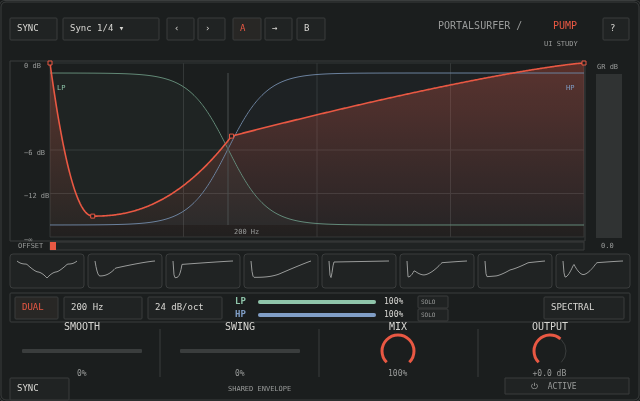
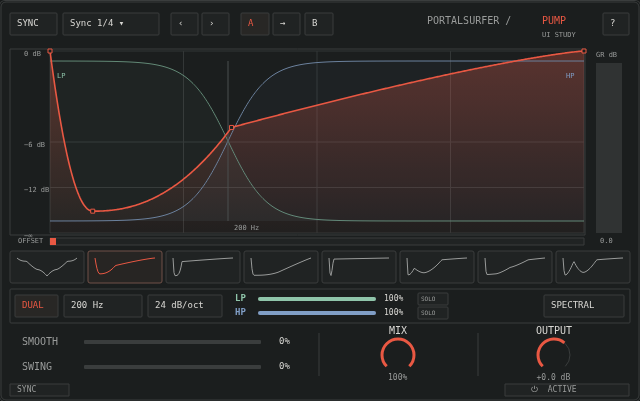
Refine editor composition and group related controls

diff --git a/frame-standalone.html b/frame-standalone.html
@@ -92,7 +92,7 @@ button:focus-visible, select:focus-visible { outline: 2px solid #e95843; outline
   function text(c,t,x,y,size=10,color=C.text,weight=400){c.fillStyle=color;c.font=`${weight} ${size}px ui-monospace, SFMono-Regular, monospace`;c.textBaseline='middle';c.fillText(t,x,y);}
   function button(c,t,x,y,w,active=false){rect(c,x,y,w,22,1,active?'#282725':C.panel);text(c,t,x+7,y+11,9,active?C.accent:C.text);}
   function knob(c,label,value,x,y,a=0){text(c,label,x-label.length*3,y-24,10);c.strokeStyle=C.line;c.lineWidth=1;c.beginPath();c.arc(x,y,16,.75*Math.PI,2.25*Math.PI);c.stroke();if(a>0){c.strokeStyle=C.accent;c.lineWidth=3;c.beginPath();c.arc(x,y,16,.75*Math.PI,(.75+1.5*a)*Math.PI);c.stroke();}text(c,value,x-value.length*2.5,y+23,8,C.muted);}
-  function slider(c,label,value,x,y,a=0){text(c,label,x-label.length*3,y-24,10,C.text);rect(c,x-60,y-2,120,4,1,'#3a3d3d',null);if(a>0)rect(c,x-60,y-2,120*a,4,1,C.accent,null);text(c,value,x-value.length*2.5,y+23,8,C.muted);}
+  function slider(c,label,value,x,y,w=282,a=0){text(c,label,x,y,10,C.muted);const tx=x+62,tw=w-105;rect(c,tx,y-2,tw,4,1,C.line,null);if(a>0)rect(c,tx,y-2,tw*a,4,1,C.accent,null);text(c,value,x+w-25,y,9,C.text);}
   function mixRow(c,label,x,y,value,color){text(c,label,x,y,9,color,600);rect(c,x+23,y-2,118,4,2,'#353838',null);if(value>0)rect(c,x+23,y-2,118*value,4,2,color,null);text(c,Math.round(value*100)+'%',x+149,y,8);rect(c,x+183,y-6,30,12,1,C.panel);text(c,'SOLO',x+186,y,6,C.muted);}
   const shapes=[["Sine", [[0.0, 1.0], [0.16, 0.82], [0.34, 0.36], [0.5, 0.0], [0.66, 0.36], [0.84, 0.82], [1.0, 1.0]], [-0.55, -0.1, 0.25, -0.25, 0.1, 0.55]], ["Soft", [[0.0, 1.0], [0.08, 0.12], [0.34, 0.58], [1.0, 1.0]], [-0.35, 0.42, -0.08]], ["Tight", [[0.0, 1.0], [0.035, 0.02], [0.15, 0.8], [1.0, 1.0]], [-0.58, 0.72, -0.04]], ["Long", [[0.0, 1.0], [0.05, 0.04], [0.46, 0.22], [1.0, 1.0]], [-0.48, 0.58, -0.02]], ["Snap", [[0.0, 1.0], [0.012, 0.22], [0.03, 0.0], [0.075, 0.94], [1.0, 1.0]], [-0.08, 0.02, 0.12, 0.0]], ["Punch", [[0.0, 1.0], [0.02, 0.06], [0.12, 0.44], [0.28, 0.18], [0.58, 0.9], [1.0, 1.0]], [-0.52, 0.3, -0.24, 0.22, -0.04]], ["Thump", [[0.0, 1.0], [0.03, 0.08], [0.18, 0.12], [0.42, 0.48], [0.72, 0.9], [1.0, 1.0]], [-0.35, 0.05, 0.12, 0.08, -0.02]], ["Double", [[0.0, 1.0], [0.04, 0.05], [0.18, 0.82], [0.34, 0.2], [0.56, 0.9], [1.0, 1.0]], [-0.48, 0.18, -0.28, 0.2, -0.05]]];
   function sample(shape,x){const n=shape[1],ts=shape[2];let i=0;while(i<n.length-2&&x>n[i+1][0])i++;const l=n[i],r=n[i+1];let t=Math.max(0,Math.min(1,(x-l[0])/(r[0]-l[0])));const tension=ts[i]||0,power=1+Math.abs(tension)*3;t=tension>=0?Math.pow(t,power):1-Math.pow(1-t,power);return l[1]+(r[1]-l[1])*t;}
@@ -108,27 +108,27 @@ button:focus-visible, select:focus-visible { outline: 2px solid #e95843; outline
   }
   function shell(c,mode){
     c.fillStyle=C.bg;c.fillRect(0,0,640,400);rect(c,1,1,638,398,5,C.bg,C.line);
-    button(c,'SYNC',10,17,47);button(c,'Sync 1/4 ▾',63,17,96);button(c,'‹',167,17,27);button(c,'›',198,17,27);button(c,'A',233,17,28,true);button(c,'→',265,17,27);button(c,'B',297,17,28);
-    text(c,'PORTALSURFER /',438,25,10,C.muted);text(c,'PUMP',553,25,10,C.accent);text(c,'UI STUDY',544,43,7,C.muted);button(c,'?',603,17,26);
-    const x=50,y=62,w=534,h=174;rect(c,10,60,575,180,0,C.bg,C.line);
+    button(c,'SYNC',10,12,47);button(c,'Sync 1/4 ▾',63,12,96);button(c,'‹',171,12,27);button(c,'›',202,12,27);button(c,'A',241,12,28,true);button(c,'→',273,12,27);button(c,'B',305,12,28);
+    text(c,'PORTALSURFER /',427,20,10,C.muted);text(c,'PUMP',542,20,10,C.accent);text(c,'UI STUDY',542,34,7,C.muted);button(c,'?',603,12,26);
+    const x=50,y=50,w=534,h=182;rect(c,10,48,575,186,0,C.bg,C.line);
     c.strokeStyle='#333737';c.lineWidth=1;for(let i=0;i<=4;i++){c.beginPath();c.moveTo(x+w*i/4,y);c.lineTo(x+w*i/4,y+h);c.stroke();}for(const level of [0,.5,.75,1]){c.beginPath();c.moveTo(x,y+h*level);c.lineTo(x+w,y+h*level);c.stroke();}
     const gradient=c.createLinearGradient(0,y,0,y+h);gradient.addColorStop(0,'rgba(233,88,67,.30)');gradient.addColorStop(1,'rgba(233,88,67,.03)');c.beginPath();c.moveTo(x,y+h);for(let i=0;i<=w;i++)c.lineTo(x+i,y+(1-sample(shapes[1],i/w))*h);c.lineTo(x+w,y+h);c.closePath();c.fillStyle=gradient;c.fill();
     crossover(c,x,y,w,h);c.strokeStyle=C.accent;c.lineWidth=1.6;curve(c,shapes[1],x,y,w,h);for(const n of shapes[1][1])rect(c,x+n[0]*w-2,y+(1-n[1])*h-2,4,4,0,C.bg,C.accent);
     for(const [label,level] of [['0 dB',0],['−6 dB',.5],['−12 dB',.75],['−∞',1]])text(c,label,24,y+level*h+3,7,C.muted);
-    text(c,'OFFSET',18,245,7,C.muted);rect(c,50,241,534,8,0,C.panel);c.fillStyle=C.accent;c.fillRect(50,241,6,8);
-    text(c,'GR dB',597,66,7,C.muted);rect(c,596,73,26,164,0,'#303333',null);text(c,'0.0',601,245,7,C.muted);
-    shapes.forEach((s,i)=>{const sx=10+i*78;rect(c,sx,253,74,34,3,C.panel);c.strokeStyle=C.muted;c.lineWidth=1;curve(c,s,sx+7,260,60,17);});
-    rect(c,10,292,620,29,1,C.bg,C.line);
+    text(c,'OFFSET',18,240,7,C.muted);rect(c,50,237,534,7,0,C.panel);c.fillStyle=C.accent;c.fillRect(50,237,6,7);
+    text(c,'GR dB',596,54,7,C.muted);rect(c,596,62,26,170,0,'#303333',null);text(c,'0.0',600,240,7,C.muted);
+    shapes.forEach((s,i)=>{const sx=10+i*78;rect(c,sx,250,74,32,2,i===1?'#272523':C.panel,i===1?'#715048':C.line);c.strokeStyle=i===1?C.accent:C.muted;c.lineWidth=1;curve(c,s,sx+7,257,60,18);});
+    rect(c,10,288,620,34,1,C.bg,C.line);
     if(mode==='dual'){
-      button(c,'DUAL',15,296,43,true);button(c,'200 Hz',64,296,78);button(c,'24 dB/oct',148,296,74);
-      mixRow(c,'LP',235,301,1,C.low);mixRow(c,'HP',235,314,1,C.blue);button(c,'SPECTRAL',544,296,80);
+      button(c,'DUAL',15,294,43,true);button(c,'200 Hz',64,294,78);button(c,'24 dB/oct',148,294,74);
+      mixRow(c,'LP',235,298,1,C.low);mixRow(c,'HP',235,312,1,C.blue);button(c,'SPECTRAL',544,294,80);
     }else{
-      button(c,'SPECTRAL',15,296,78,true);button(c,'12 dB',99,296,75);button(c,'10 ms',180,296,75);button(c,'150 ms',261,296,75);button(c,'DEPTH',342,296,72,true);button(c,'DUAL',550,296,74);
+      button(c,'SPECTRAL',15,294,78,true);button(c,'12 dB',99,294,75);button(c,'10 ms',180,294,75);button(c,'150 ms',261,294,75);button(c,'DEPTH',342,294,72,true);button(c,'DUAL',550,294,74);
       for(let i=0;i<24;i++){const v=.12+.7*Math.exp(-Math.pow((i-9)/3,2));c.fillStyle='#526576';c.fillRect(435+i*5.5,83+35*(1-v),3,35*v);}text(c,'EXT · ILLUSTRATIVE',435,125,6,C.muted);
     }
-    for(const dx of [160,319,478]){c.strokeStyle=C.line;c.beginPath();c.moveTo(dx,328);c.lineTo(dx,376);c.stroke();}
-    slider(c,'SMOOTH','0%',82,350);slider(c,'SWING','0%',240,350);knob(c,'MIX','100%',398,350,1);knob(c,'OUTPUT','+0.0 dB',550,350,.65);
-    button(c,'SYNC',10,377,59);text(c,'SHARED ENVELOPE',228,388,7,C.muted);rect(c,505,377,124,16,0,C.panel);text(c,'⏻  ACTIVE',531,386,8,C.muted);
+    for(const dx of [319,478]){c.strokeStyle=C.line;c.beginPath();c.moveTo(dx,332);c.lineTo(dx,375);c.stroke();}
+    slider(c,'SMOOTH','0%',22,341);slider(c,'SWING','0%',22,366);knob(c,'MIX','100%',398,354,1);knob(c,'OUTPUT','+0.0 dB',554,354,.65);
+    rect(c,10,383,59,12,0,C.panel);text(c,'SYNC',17,389,8,C.muted);rect(c,505,383,124,12,0,C.panel);text(c,'⏻  ACTIVE',531,389,8,C.muted);
   }
   Frame.register({id:'pump',name:'Pump · Dual band',width:640,height:400,paint(c){shell(c,'dual');}});
   Frame.register({id:'pump-spectral',name:'Pump · Spectral ducking',width:640,height:400,paint(c){shell(c,'spectral');}});

diff --git a/examples/pump.js b/examples/pump.js
@@ -5,7 +5,7 @@
   function text(c,t,x,y,size=10,color=C.text,weight=400){c.fillStyle=color;c.font=`${weight} ${size}px ui-monospace, SFMono-Regular, monospace`;c.textBaseline='middle';c.fillText(t,x,y);}
   function button(c,t,x,y,w,active=false){rect(c,x,y,w,22,1,active?'#282725':C.panel);text(c,t,x+7,y+11,9,active?C.accent:C.text);}
   function knob(c,label,value,x,y,a=0){text(c,label,x-label.length*3,y-24,10);c.strokeStyle=C.line;c.lineWidth=1;c.beginPath();c.arc(x,y,16,.75*Math.PI,2.25*Math.PI);c.stroke();if(a>0){c.strokeStyle=C.accent;c.lineWidth=3;c.beginPath();c.arc(x,y,16,.75*Math.PI,(.75+1.5*a)*Math.PI);c.stroke();}text(c,value,x-value.length*2.5,y+23,8,C.muted);}
-  function slider(c,label,value,x,y,a=0){text(c,label,x-label.length*3,y-24,10,C.text);rect(c,x-60,y-2,120,4,1,'#3a3d3d',null);if(a>0)rect(c,x-60,y-2,120*a,4,1,C.accent,null);text(c,value,x-value.length*2.5,y+23,8,C.muted);}
+  function slider(c,label,value,x,y,w=282,a=0){text(c,label,x,y,10,C.muted);const tx=x+62,tw=w-105;rect(c,tx,y-2,tw,4,1,C.line,null);if(a>0)rect(c,tx,y-2,tw*a,4,1,C.accent,null);text(c,value,x+w-25,y,9,C.text);}
   function mixRow(c,label,x,y,value,color){text(c,label,x,y,9,color,600);rect(c,x+23,y-2,118,4,2,'#353838',null);if(value>0)rect(c,x+23,y-2,118*value,4,2,color,null);text(c,Math.round(value*100)+'%',x+149,y,8);rect(c,x+183,y-6,30,12,1,C.panel);text(c,'SOLO',x+186,y,6,C.muted);}
   const shapes=[["Sine", [[0.0, 1.0], [0.16, 0.82], [0.34, 0.36], [0.5, 0.0], [0.66, 0.36], [0.84, 0.82], [1.0, 1.0]], [-0.55, -0.1, 0.25, -0.25, 0.1, 0.55]], ["Soft", [[0.0, 1.0], [0.08, 0.12], [0.34, 0.58], [1.0, 1.0]], [-0.35, 0.42, -0.08]], ["Tight", [[0.0, 1.0], [0.035, 0.02], [0.15, 0.8], [1.0, 1.0]], [-0.58, 0.72, -0.04]], ["Long", [[0.0, 1.0], [0.05, 0.04], [0.46, 0.22], [1.0, 1.0]], [-0.48, 0.58, -0.02]], ["Snap", [[0.0, 1.0], [0.012, 0.22], [0.03, 0.0], [0.075, 0.94], [1.0, 1.0]], [-0.08, 0.02, 0.12, 0.0]], ["Punch", [[0.0, 1.0], [0.02, 0.06], [0.12, 0.44], [0.28, 0.18], [0.58, 0.9], [1.0, 1.0]], [-0.52, 0.3, -0.24, 0.22, -0.04]], ["Thump", [[0.0, 1.0], [0.03, 0.08], [0.18, 0.12], [0.42, 0.48], [0.72, 0.9], [1.0, 1.0]], [-0.35, 0.05, 0.12, 0.08, -0.02]], ["Double", [[0.0, 1.0], [0.04, 0.05], [0.18, 0.82], [0.34, 0.2], [0.56, 0.9], [1.0, 1.0]], [-0.48, 0.18, -0.28, 0.2, -0.05]]];
   function sample(shape,x){const n=shape[1],ts=shape[2];let i=0;while(i<n.length-2&&x>n[i+1][0])i++;const l=n[i],r=n[i+1];let t=Math.max(0,Math.min(1,(x-l[0])/(r[0]-l[0])));const tension=ts[i]||0,power=1+Math.abs(tension)*3;t=tension>=0?Math.pow(t,power):1-Math.pow(1-t,power);return l[1]+(r[1]-l[1])*t;}
@@ -21,27 +21,27 @@
   }
   function shell(c,mode){
     c.fillStyle=C.bg;c.fillRect(0,0,640,400);rect(c,1,1,638,398,5,C.bg,C.line);
-    button(c,'SYNC',10,17,47);button(c,'Sync 1/4 ▾',63,17,96);button(c,'‹',167,17,27);button(c,'›',198,17,27);button(c,'A',233,17,28,true);button(c,'→',265,17,27);button(c,'B',297,17,28);
-    text(c,'PORTALSURFER /',438,25,10,C.muted);text(c,'PUMP',553,25,10,C.accent);text(c,'UI STUDY',544,43,7,C.muted);button(c,'?',603,17,26);
-    const x=50,y=62,w=534,h=174;rect(c,10,60,575,180,0,C.bg,C.line);
+    button(c,'SYNC',10,12,47);button(c,'Sync 1/4 ▾',63,12,96);button(c,'‹',171,12,27);button(c,'›',202,12,27);button(c,'A',241,12,28,true);button(c,'→',273,12,27);button(c,'B',305,12,28);
+    text(c,'PORTALSURFER /',427,20,10,C.muted);text(c,'PUMP',542,20,10,C.accent);text(c,'UI STUDY',542,34,7,C.muted);button(c,'?',603,12,26);
+    const x=50,y=50,w=534,h=182;rect(c,10,48,575,186,0,C.bg,C.line);
     c.strokeStyle='#333737';c.lineWidth=1;for(let i=0;i<=4;i++){c.beginPath();c.moveTo(x+w*i/4,y);c.lineTo(x+w*i/4,y+h);c.stroke();}for(const level of [0,.5,.75,1]){c.beginPath();c.moveTo(x,y+h*level);c.lineTo(x+w,y+h*level);c.stroke();}
     const gradient=c.createLinearGradient(0,y,0,y+h);gradient.addColorStop(0,'rgba(233,88,67,.30)');gradient.addColorStop(1,'rgba(233,88,67,.03)');c.beginPath();c.moveTo(x,y+h);for(let i=0;i<=w;i++)c.lineTo(x+i,y+(1-sample(shapes[1],i/w))*h);c.lineTo(x+w,y+h);c.closePath();c.fillStyle=gradient;c.fill();
     crossover(c,x,y,w,h);c.strokeStyle=C.accent;c.lineWidth=1.6;curve(c,shapes[1],x,y,w,h);for(const n of shapes[1][1])rect(c,x+n[0]*w-2,y+(1-n[1])*h-2,4,4,0,C.bg,C.accent);
     for(const [label,level] of [['0 dB',0],['−6 dB',.5],['−12 dB',.75],['−∞',1]])text(c,label,24,y+level*h+3,7,C.muted);
-    text(c,'OFFSET',18,245,7,C.muted);rect(c,50,241,534,8,0,C.panel);c.fillStyle=C.accent;c.fillRect(50,241,6,8);
-    text(c,'GR dB',597,66,7,C.muted);rect(c,596,73,26,164,0,'#303333',null);text(c,'0.0',601,245,7,C.muted);
-    shapes.forEach((s,i)=>{const sx=10+i*78;rect(c,sx,253,74,34,3,C.panel);c.strokeStyle=C.muted;c.lineWidth=1;curve(c,s,sx+7,260,60,17);});
-    rect(c,10,292,620,29,1,C.bg,C.line);
+    text(c,'OFFSET',18,240,7,C.muted);rect(c,50,237,534,7,0,C.panel);c.fillStyle=C.accent;c.fillRect(50,237,6,7);
+    text(c,'GR dB',596,54,7,C.muted);rect(c,596,62,26,170,0,'#303333',null);text(c,'0.0',600,240,7,C.muted);
+    shapes.forEach((s,i)=>{const sx=10+i*78;rect(c,sx,250,74,32,2,i===1?'#272523':C.panel,i===1?'#715048':C.line);c.strokeStyle=i===1?C.accent:C.muted;c.lineWidth=1;curve(c,s,sx+7,257,60,18);});
+    rect(c,10,288,620,34,1,C.bg,C.line);
     if(mode==='dual'){
-      button(c,'DUAL',15,296,43,true);button(c,'200 Hz',64,296,78);button(c,'24 dB/oct',148,296,74);
-      mixRow(c,'LP',235,301,1,C.low);mixRow(c,'HP',235,314,1,C.blue);button(c,'SPECTRAL',544,296,80);
+      button(c,'DUAL',15,294,43,true);button(c,'200 Hz',64,294,78);button(c,'24 dB/oct',148,294,74);
+      mixRow(c,'LP',235,298,1,C.low);mixRow(c,'HP',235,312,1,C.blue);button(c,'SPECTRAL',544,294,80);
     }else{
-      button(c,'SPECTRAL',15,296,78,true);button(c,'12 dB',99,296,75);button(c,'10 ms',180,296,75);button(c,'150 ms',261,296,75);button(c,'DEPTH',342,296,72,true);button(c,'DUAL',550,296,74);
+      button(c,'SPECTRAL',15,294,78,true);button(c,'12 dB',99,294,75);button(c,'10 ms',180,294,75);button(c,'150 ms',261,294,75);button(c,'DEPTH',342,294,72,true);button(c,'DUAL',550,294,74);
       for(let i=0;i<24;i++){const v=.12+.7*Math.exp(-Math.pow((i-9)/3,2));c.fillStyle='#526576';c.fillRect(435+i*5.5,83+35*(1-v),3,35*v);}text(c,'EXT · ILLUSTRATIVE',435,125,6,C.muted);
     }
-    for(const dx of [160,319,478]){c.strokeStyle=C.line;c.beginPath();c.moveTo(dx,328);c.lineTo(dx,376);c.stroke();}
-    slider(c,'SMOOTH','0%',82,350);slider(c,'SWING','0%',240,350);knob(c,'MIX','100%',398,350,1);knob(c,'OUTPUT','+0.0 dB',550,350,.65);
-    button(c,'SYNC',10,377,59);text(c,'SHARED ENVELOPE',228,388,7,C.muted);rect(c,505,377,124,16,0,C.panel);text(c,'⏻  ACTIVE',531,386,8,C.muted);
+    for(const dx of [319,478]){c.strokeStyle=C.line;c.beginPath();c.moveTo(dx,332);c.lineTo(dx,375);c.stroke();}
+    slider(c,'SMOOTH','0%',22,341);slider(c,'SWING','0%',22,366);knob(c,'MIX','100%',398,354,1);knob(c,'OUTPUT','+0.0 dB',554,354,.65);
+    rect(c,10,383,59,12,0,C.panel);text(c,'SYNC',17,389,8,C.muted);rect(c,505,383,124,12,0,C.panel);text(c,'⏻  ACTIVE',531,389,8,C.muted);
   }
   Frame.register({id:'pump',name:'Pump · Dual band',width:640,height:400,paint(c){shell(c,'dual');}});
   Frame.register({id:'pump-spectral',name:'Pump · Spectral ducking',width:640,height:400,paint(c){shell(c,'spectral');}});

diff --git a/README.md b/README.md
@@ -39,3 +39,5 @@ Run `python3 scripts/build-standalone.py` to regenerate `frame-standalone.html`.
 The main envelope view includes a crossover overlay spanning the full graph with mint low-pass and blue high-pass responses, translucent band fills, a crossover marker, and a separate logarithmic 20 Hz–20 kHz scale. Its frequency axis is independent of the envelope's time axis.
 
 Smooth and Swing use horizontal sliders without handles; Mix and Output retain their rotary knobs.
+
+The composition groups stacked Smooth/Swing sliders beside Mix/Output, with the compact band strip immediately below the curve presets. Dual activation lives with its band controls.
